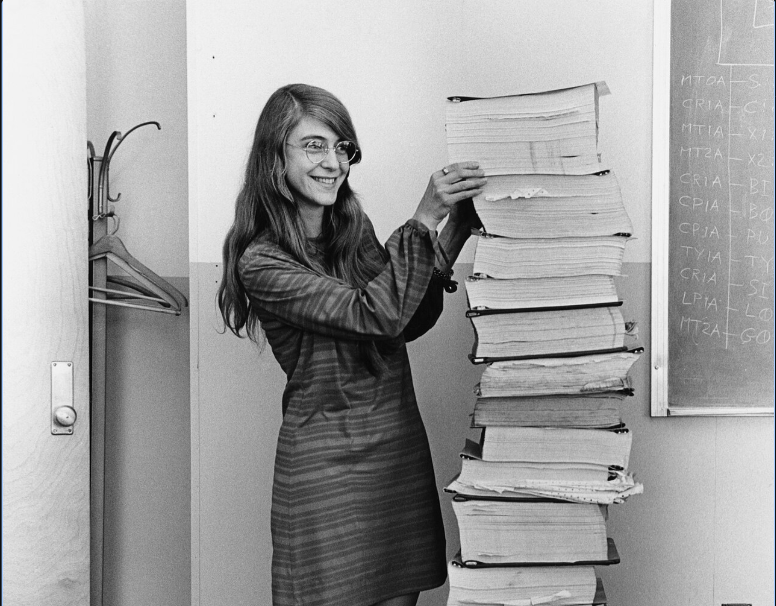
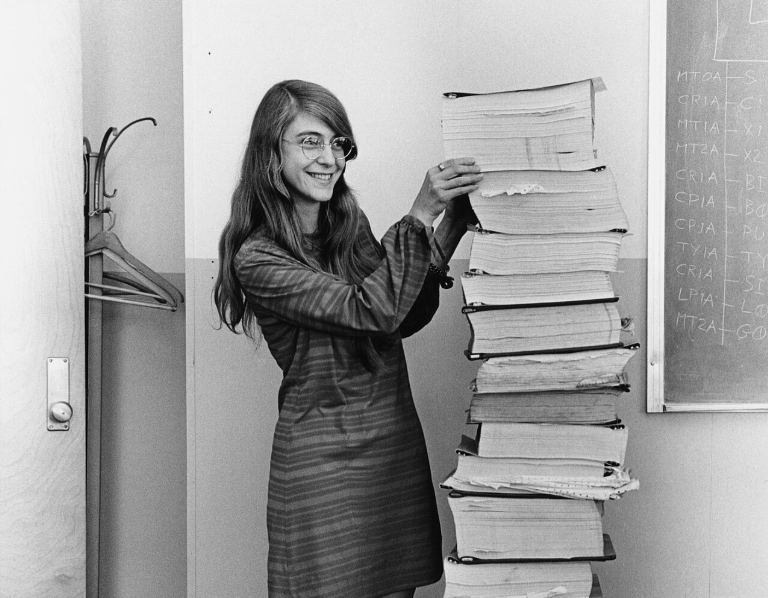
Refresh social card colors and remove Apollo image border

diff --git a/index.html b/index.html
@@ -15,14 +15,14 @@
   <meta property="og:url" content="https://al-evans.github.io/" />
   <meta property="og:title" content="Amanda Kramer, Social Media Manager" />
   <meta property="og:description" content="GitHub social media manager working at the intersection of digital marketing, community building, and developer relations." />
-  <meta property="og:image" content="https://al-evans.github.io/images/social-card.png" />
+  <meta property="og:image" content="https://al-evans.github.io/images/social-card.png?v=20261031" />
   <meta property="og:image:width" content="1200" />
   <meta property="og:image:height" content="630" />
   <meta property="og:image:alt" content="Amanda Kramer, Social Media Manager at GitHub" />
   <meta name="twitter:card" content="summary_large_image" />
   <meta name="twitter:title" content="Amanda Kramer, Social Media Manager" />
   <meta name="twitter:description" content="GitHub social media manager working at the intersection of digital marketing, community building, and developer relations." />
-  <meta name="twitter:image" content="https://al-evans.github.io/images/social-card.png" />
+  <meta name="twitter:image" content="https://al-evans.github.io/images/social-card.png?v=20261031" />
 
   <!-- Favicon -->
   <link rel="icon" href="favicon.svg?v=20261031" type="image/svg+xml" />
@@ -425,7 +425,7 @@
           <article class="post-card">
             <div class="post-banner" data-label="Instagram">
               <!-- EDIT: upload to images/apollo-11.png -->
-              <img src="images/apollo-11.png?v=20260802" alt="Margaret Hamilton standing beside the printed Apollo 11 guidance computer source code" loading="lazy" style="object-position:top" onerror="this.closest('.post-banner').classList.add('no-img'); this.remove();" />
+              <img src="images/apollo-11.png?v=20261031" alt="Margaret Hamilton standing beside the printed Apollo 11 guidance computer source code" loading="lazy" style="object-position:top" onerror="this.closest('.post-banner').classList.add('no-img'); this.remove();" />
             </div>
             <div class="post-body">
               <span class="post-tag">Instagram</span>

diff --git a/social-card-variant-2.html b/social-card-variant-2.html
@@ -9,13 +9,12 @@
   <link href="https://fonts.googleapis.com/css2?family=Inter:wght@500;600;700;800&family=JetBrains+Mono:wght@500&display=swap" rel="stylesheet" />
   <style>
     :root {
-      --accent: #58a6ff;
-      --accent-soft: rgba(88, 166, 255, 0.16);
-      --bg: #0d1117;
-      --bg-soft: #161b22;
-      --border: #30363d;
-      --ink: #e6edf3;
-      --muted: #8b949e;
+      --accent: #E87524;
+      --accent-soft: rgba(232, 117, 36, 0.16);
+      --bg: #FFF4E6;
+      --border: #E7D8C8;
+      --ink: #1F3A5F;
+      --muted: #52667D;
       --font-body: "Inter", system-ui, -apple-system, sans-serif;
       --font-mono: "JetBrains Mono", ui-monospace, SFMono-Regular, Menlo, monospace;
     }
@@ -34,10 +33,10 @@
     .card {
       width: 1200px;
       height: 630px;
-      border: 1px solid #21262d;
+      border: 1px solid var(--border);
       background:
         radial-gradient(760px 300px at 85% -10%, var(--accent-soft), transparent 70%),
-        radial-gradient(480px 280px at 0% 100%, rgba(88, 166, 255, 0.1), transparent 72%),
+        radial-gradient(480px 280px at 0% 100%, rgba(143, 175, 154, 0.18), transparent 72%),
         var(--bg);
       padding: 58px 64px;
       display: flex;
@@ -77,7 +76,7 @@
     .divider {
       height: 1px;
       width: 100%;
-      background: #21262d;
+      background: var(--border);
       margin: 24px 0 22px;
     }
 
